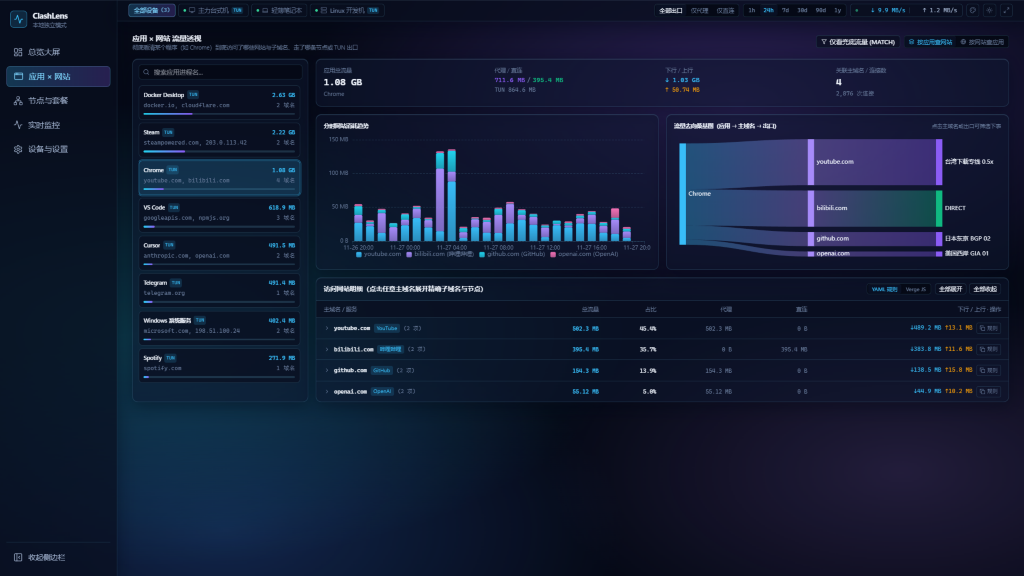
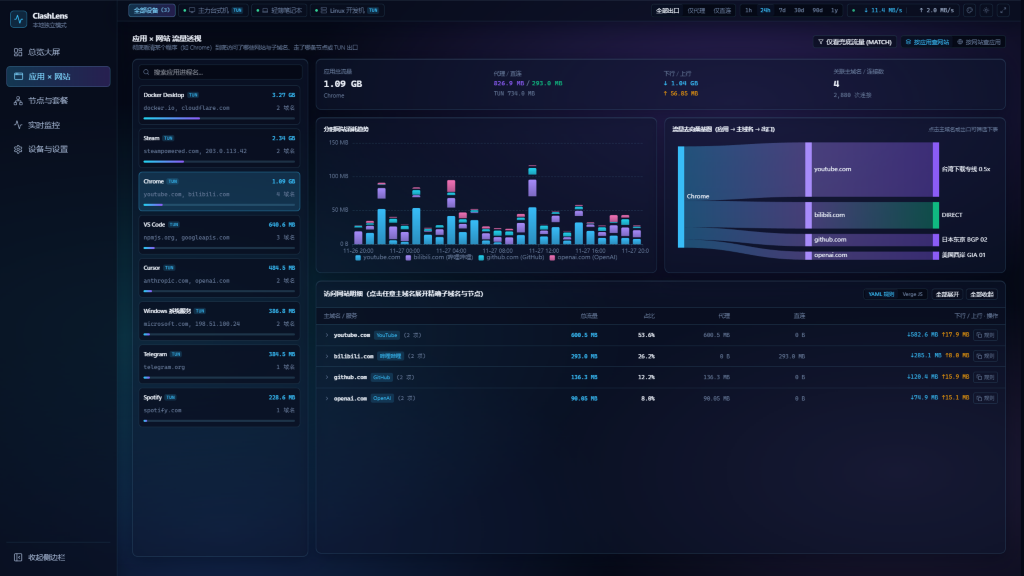
fix(web,server): stabilize AppsExplorer rows, live progress bars & HTML cache headers
- Use html overflow-y: scroll so Chromium keeps a permanent scrollbar track despite custom webkit scrollbar styles
- AppsExplorerPage: lock left panel (934px) and item heights (74px) regardless of TUN badges, unify summary min-height and 460px scrollable detail tables
- LiveMonitorPage: drive Top 5 progress bar widths from live totalBps (keeping EMA + 15% hysteresis for calm rank ordering) so 0 B/s rows return smoothly to 0%
- webembed: serve index.html with Cache-Control: no-cache, no-store, must-revalidate so updated asset hashes load immediately after deployment

diff --git a/web/src/pages/AppsExplorerPage.tsx b/web/src/pages/AppsExplorerPage.tsx
@@ -322,9 +322,12 @@ export function AppsExplorerPage({
       </div>
 
       {/* Master-Detail Split Layout */}
-      <div className="flex flex-col gap-4 lg:flex-row">
+      <div className="flex flex-col gap-4 lg:flex-row lg:items-start">
         {/* Left List */}
-        <div className="cl-card flex w-full shrink-0 flex-col rounded-xl p-3 lg:w-[330px]">
+        <div
+          data-testid="apps-left-card"
+          className="cl-card flex w-full shrink-0 flex-col rounded-xl p-3 lg:h-[934px] lg:w-[330px]"
+        >
           <div className="relative mb-3">
             <Search className="pointer-events-none absolute left-2.5 top-1/2 h-3.5 w-3.5 -translate-y-1/2 text-[var(--cl-text-muted)]" />
             <input
@@ -336,7 +339,7 @@ export function AppsExplorerPage({
             />
           </div>
 
-          <div className="cl-list-stack cl-thin-scroll max-h-[680px] space-y-1.5 overflow-y-auto pr-1">
+          <div className="cl-thin-scroll flex max-h-[680px] min-h-0 flex-1 flex-col gap-2 overflow-y-auto pr-1 lg:max-h-none">
             {mode === 'app' ? (
               !appsList || appsList.items.length === 0 ? (
                 <div className="py-8 text-center text-xs text-[var(--cl-text-muted)]">暂无应用数据</div>
@@ -347,19 +350,20 @@ export function AppsExplorerPage({
                     <button
                       type="button"
                       key={item.process_display}
+                      data-testid="apps-left-item"
                       onClick={() => setSelectedApp(item.process_display)}
-                      className="w-full cursor-pointer rounded-lg border p-2.5 text-left transition hover:border-[var(--cl-border-focus)]"
+                      className="flex h-[74px] w-full shrink-0 cursor-pointer flex-col justify-between rounded-lg border p-2.5 text-left transition hover:border-[var(--cl-border-focus)]"
                       style={{
                         borderColor: active ? 'var(--cl-border-focus)' : 'var(--cl-border-subtle)',
                         backgroundColor: active ? 'var(--cl-accent-soft)' : 'var(--cl-bg-sidebar)',
                       }}
                     >
-                      <div className="flex items-center justify-between gap-2">
+                      <div className="flex h-5 items-center justify-between gap-2">
                         <div className="flex min-w-0 items-center gap-1.5">
                           <span className="truncate text-xs font-semibold">{item.process_display}</span>
                           {item.tun_bytes > 0 && (
                             <span
-                              className="rounded px-1 py-0.5 font-mono text-[9px]"
+                              className="shrink-0 rounded px-1 py-0.5 font-mono text-[9px] leading-none"
                               style={{
                                 backgroundColor: 'var(--cl-accent-soft)',
                                 color: 'var(--cl-accent-primary)',
@@ -376,14 +380,14 @@ export function AppsExplorerPage({
                           {formatBytes(item.total_bytes)}
                         </span>
                       </div>
-                      <div className="mt-1 flex items-center justify-between text-[11px] text-[var(--cl-text-muted)]">
+                      <div className="flex h-4 items-center justify-between gap-2 text-[11px] text-[var(--cl-text-muted)]">
                         <span className="truncate font-mono">
                           {item.top_domains.slice(0, 2).map((d) => maskHostOrDomain(d.root_domain, privacyMode)).join(', ') || '-'}
                         </span>
                         <span className="shrink-0 font-mono">{item.domain_count} 域名</span>
                       </div>
                       <div
-                        className="mt-1.5 h-1 w-full overflow-hidden rounded-full"
+                        className="h-1 w-full overflow-hidden rounded-full"
                         style={{ backgroundColor: 'var(--cl-border-subtle)' }}
                       >
                         <div
@@ -407,14 +411,15 @@ export function AppsExplorerPage({
                   <button
                     type="button"
                     key={item.root_domain}
+                    data-testid="apps-left-item"
                     onClick={() => setSelectedDomain(item.root_domain)}
-                    className="w-full cursor-pointer rounded-lg border p-2.5 text-left transition hover:border-[var(--cl-border-focus)]"
+                    className="flex h-[74px] w-full shrink-0 cursor-pointer flex-col justify-between rounded-lg border p-2.5 text-left transition hover:border-[var(--cl-border-focus)]"
                     style={{
                       borderColor: active ? 'var(--cl-border-focus)' : 'var(--cl-border-subtle)',
                       backgroundColor: active ? 'var(--cl-accent-soft)' : 'var(--cl-bg-sidebar)',
                     }}
                   >
-                    <div className="flex items-center justify-between gap-2">
+                    <div className="flex h-5 items-center justify-between gap-2">
                       <span className="truncate font-mono text-xs font-semibold">
                         {maskHostOrDomain(item.root_domain, privacyMode)}
                       </span>
@@ -425,14 +430,14 @@ export function AppsExplorerPage({
                         {formatBytes(item.total_bytes)}
                       </span>
                     </div>
-                    <div className="mt-1 flex items-center justify-between text-[11px] text-[var(--cl-text-muted)]">
+                    <div className="flex h-4 items-center justify-between gap-2 text-[11px] text-[var(--cl-text-muted)]">
                       <span className="truncate">
                         {item.service_tag || item.top_apps.map((a) => a.process_display).join(', ')}
                       </span>
                       <span className="shrink-0 font-mono">{item.app_count} 应用</span>
                     </div>
                     <div
-                      className="mt-1.5 h-1 w-full overflow-hidden rounded-full"
+                      className="h-1 w-full overflow-hidden rounded-full"
                       style={{ backgroundColor: 'var(--cl-border-subtle)' }}
                     >
                       <div
@@ -455,7 +460,7 @@ export function AppsExplorerPage({
           {mode === 'app' && appDetail ? (
             <>
               {/* App Summary Header */}
-              <div className="cl-card grid gap-3 rounded-xl p-4 sm:grid-cols-4">
+              <div className="cl-card grid min-h-[96px] items-center gap-3 rounded-xl p-4 sm:grid-cols-4">
                 <div>
                   <div className="text-xs text-[var(--cl-text-muted)]">应用总流量</div>
                   <div className="mt-1 font-mono text-xl font-bold tabular-nums">
@@ -526,9 +531,9 @@ export function AppsExplorerPage({
               </div>
 
               {/* Expandable Root Domains -> Subdomains Table */}
-              <div className="cl-card overflow-hidden rounded-xl">
+              <div data-testid="apps-detail-table-card" className="cl-card flex flex-col overflow-hidden rounded-xl">
                 <div
-                  className="flex flex-wrap items-center justify-between gap-2 border-b px-4 py-3"
+                  className="flex min-h-[50px] flex-wrap items-center justify-between gap-2 border-b px-4 py-2.5"
                   style={{ borderColor: 'var(--cl-border-subtle)' }}
                 >
                   <div className="flex flex-wrap items-center gap-2">
@@ -603,10 +608,10 @@ export function AppsExplorerPage({
                     )}
                   </div>
                 </div>
-                <div className="overflow-x-auto">
+                <div className="cl-thin-scroll h-[460px] overflow-x-auto overflow-y-auto">
                   <table className="w-full text-left text-xs">
                     <thead
-                      className="border-b bg-[var(--cl-bg-sidebar)] text-[var(--cl-text-muted)]"
+                      className="sticky top-0 z-10 border-b bg-[var(--cl-bg-sidebar)] text-[var(--cl-text-muted)]"
                       style={{ borderColor: 'var(--cl-border-subtle)' }}
                     >
                       <tr>
@@ -808,7 +813,7 @@ export function AppsExplorerPage({
             </>
           ) : mode === 'domain' && domainDetail ? (
             <>
-              <div className="cl-card grid gap-3 rounded-xl p-4 sm:grid-cols-4">
+              <div className="cl-card grid min-h-[96px] items-center gap-3 rounded-xl p-4 sm:grid-cols-4">
                 <div>
                   <div className="text-xs text-[var(--cl-text-muted)]">网站主域名</div>
                   <div className="mt-1 truncate font-mono text-lg font-bold">
@@ -861,9 +866,9 @@ export function AppsExplorerPage({
                 <EChartBox option={timelineOption} className="h-[240px] w-full" />
               </div>
 
-              <div className="cl-card overflow-hidden rounded-xl">
+              <div data-testid="apps-detail-table-card" className="cl-card flex flex-col overflow-hidden rounded-xl">
                 <div
-                  className="flex flex-wrap items-center justify-between gap-2 border-b px-4 py-3"
+                  className="flex min-h-[50px] flex-wrap items-center justify-between gap-2 border-b px-4 py-2.5"
                   style={{ borderColor: 'var(--cl-border-subtle)' }}
                 >
                   <div className="flex flex-wrap items-center gap-2">
@@ -924,10 +929,10 @@ export function AppsExplorerPage({
                     )}
                   </div>
                 </div>
-                <div className="overflow-x-auto">
+                <div className="cl-thin-scroll h-[460px] overflow-x-auto overflow-y-auto">
                   <table className="w-full text-left text-xs">
                     <thead
-                      className="border-b bg-[var(--cl-bg-sidebar)] text-[var(--cl-text-muted)]"
+                      className="sticky top-0 z-10 border-b bg-[var(--cl-bg-sidebar)] text-[var(--cl-text-muted)]"
                       style={{ borderColor: 'var(--cl-border-subtle)' }}
                     >
                       <tr>
@@ -1062,7 +1067,7 @@ export function AppsExplorerPage({
               </div>
             </>
           ) : (
-            <div className="cl-card flex h-64 items-center justify-center rounded-xl text-xs text-[var(--cl-text-muted)]">
+            <div className="cl-card flex h-64 items-center justify-center rounded-xl text-xs text-[var(--cl-text-muted)] lg:min-h-[934px]">
               请在左侧选择应用或等待流量数据上报
             </div>
           )}

diff --git a/web/src/pages/LiveMonitorPage.tsx b/web/src/pages/LiveMonitorPage.tsx
@@ -373,10 +373,9 @@ export function LiveMonitorPage({
     }
   }
 
-  const maxProcEma = useMemo(() => {
+  const maxProcLiveBps = useMemo(() => {
     let maxVal = 4096
     for (const r of procRows) {
-      if (r.emaBps > maxVal) maxVal = r.emaBps
       if (r.totalBps > maxVal) maxVal = r.totalBps
     }
     return maxVal
@@ -614,11 +613,10 @@ export function LiveMonitorPage({
           ) : (
             <div className="cl-list-stack space-y-2">
               {procRows.map((p) => {
-                const effectiveBps = p.totalBps === 0 && p.emaBps < 128 ? 0 : (p.emaBps || p.totalBps)
                 const pct =
-                  p.idle || effectiveBps <= 0
+                  p.idle || p.totalBps <= 0
                     ? 0
-                    : Math.max(4, Math.min(100, Math.round((effectiveBps / maxProcEma) * 100)))
+                    : Math.max(4, Math.min(100, Math.round((p.totalBps / maxProcLiveBps) * 100)))
                 return (
                   <button
                     type="button"

diff --git a/web/src/index.css b/web/src/index.css
@@ -130,7 +130,7 @@
   html {
     background-color: var(--cl-bg-page);
     font-size: var(--cl-font-size-base, 14px);
-    scrollbar-gutter: stable;
+    overflow-y: scroll;
     -webkit-font-smoothing: antialiased;
     -moz-osx-font-smoothing: grayscale;
     text-rendering: optimizeLegibility;

diff --git a/server/internal/webembed/embed.go b/server/internal/webembed/embed.go
@@ -25,20 +25,21 @@ func SPAHandler() http.Handler {
 			return
 		}
 		clean := strings.TrimPrefix(path.Clean("/"+r.URL.Path), "/")
-		if clean != "" && clean != "." {
+		if clean != "" && clean != "." && clean != "index.html" {
 			if f, err := sub.Open(clean); err == nil {
 				_ = f.Close()
 				fileServer.ServeHTTP(w, r)
 				return
 			}
 		}
-		// Fallback to SPA index.html
+		// Fallback to SPA index.html (never cache so fresh asset hashes load immediately after rollout)
 		indexBytes, err := fs.ReadFile(sub, "index.html")
 		if err != nil {
 			http.NotFound(w, r)
 			return
 		}
 		w.Header().Set("Content-Type", "text/html; charset=utf-8")
+		w.Header().Set("Cache-Control", "no-cache, no-store, must-revalidate")
 		w.WriteHeader(http.StatusOK)
 		_, _ = w.Write(indexBytes)
 	})
